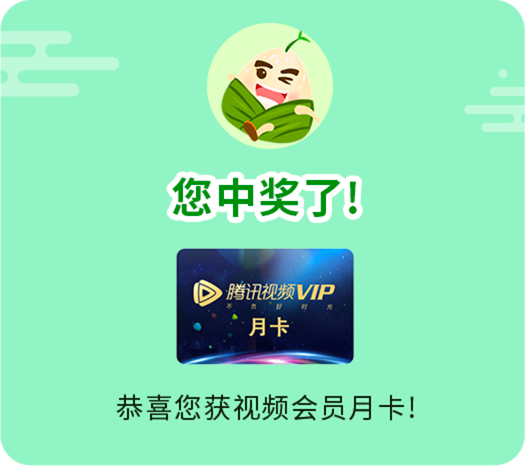
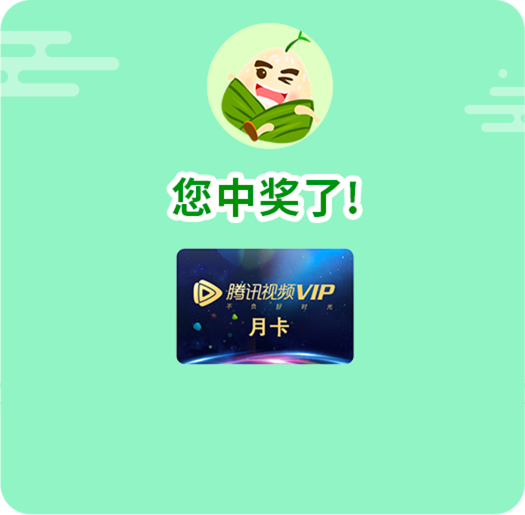
查看激活码

diff --git a/zongzi.html b/zongzi.html
@@ -49,7 +49,7 @@
 	</div>
 <!--收集一枚粽子弹窗结束-->
 <!--中奖了弹窗开始-->
-	<div class="collectcg" style="display:none;" id="giftGoods">
+	<div class="collectcg" style="display:block;" id="giftGoods">
 		<span class="closebtn">关闭</span>
 		<div class="poupbox">
 			<img src="images/tc_zj.png"/>
@@ -62,6 +62,7 @@
 		<span class="closebtn">关闭</span>
 		<div class="poupbox">
 			<img src="images/tc_sphyk.png"/>
+			<a class="linkbtn" href="mygift.html" onclick="giftCodeDismiss()">查看激活码</a>
 		</div>
 	</div>
 <!--中奖了视频会员卡弹窗结束-->
@@ -271,7 +272,12 @@
 
 	function giftGoodsDismiss() {
 		$('#giftGoods').css('display', 'none');
-		$('#mask1').css('display', 'none');
+		$('.mask').css('display', 'none');
+	}
+
+	function giftCodeDismiss() {
+		$('#giftCode').css('display', 'none');
+		$('.mask').css('display', 'none');
 	}
 
 
@@ -282,7 +288,7 @@
 
 <script type="text/javascript" src="js/global.js"></script>
 
-<script type="text/javascript" src="js/wechat.js" ></script>
+<!-- <script type="text/javascript" src="js/wechat.js" ></script> -->
 
 
 <script type="text/javascript">
